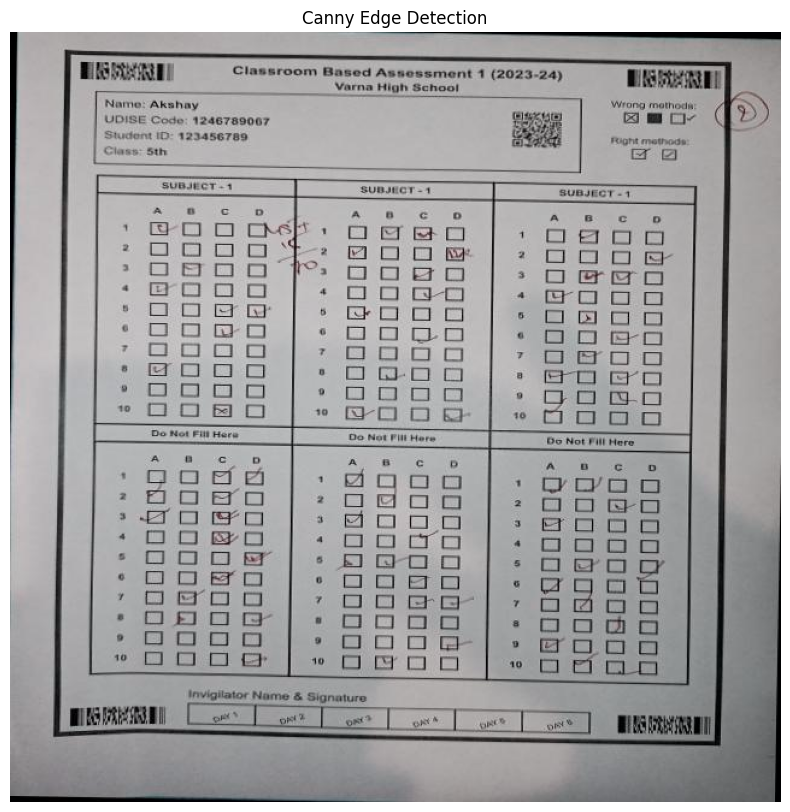
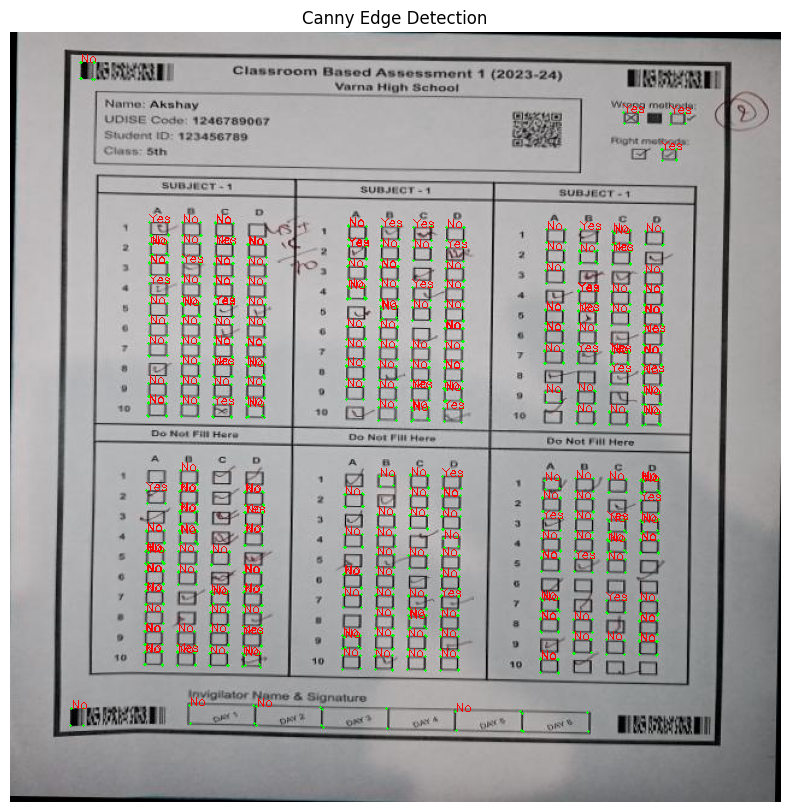
finalized

diff --git a/app.py b/app.py
@@ -2,6 +2,8 @@ from flask import Flask, request, render_template, send_from_directory, jsonify,
 import os
 import cv2
 import numpy as np
+import matplotlib.pyplot as plt
+import math
 
 app = Flask(__name__)
 UPLOAD_FOLDER = 'uploads'
@@ -73,43 +75,155 @@ def process_e_document(image):
     return image
 
 def process_paper_document(image):
+    # Binarize the image using adaptive thresholding and invert it
     gray_scale = cv2.cvtColor(image, cv2.COLOR_BGR2GRAY)
     img_bin = cv2.adaptiveThreshold(gray_scale, 255, cv2.ADAPTIVE_THRESH_GAUSSIAN_C, cv2.THRESH_BINARY_INV, 11, 2)
+
+
+    # Define the minimum checkbox size
     line_min_width = 3
+
+    # Define vertical and horizontal kernels for morphological operations
     kernal_h = np.ones((1, line_min_width), np.uint8)
     kernal_v = np.ones((line_min_width, 1), np.uint8)
+
+    # Detect horizontal lines
     img_bin_h = cv2.morphologyEx(img_bin, cv2.MORPH_OPEN, kernal_h)
+
+    # Detect vertical lines
     img_bin_v = cv2.morphologyEx(img_bin, cv2.MORPH_OPEN, kernal_v)
+
+
+    # Merge horizontal and vertical lines
     img_bin_final = img_bin_h | img_bin_v
+
+    # Apply dilation to close small gaps
     final_kernel = np.ones((1, 1), np.uint8)
     img_bin_final = cv2.dilate(img_bin_final, final_kernel, iterations=1)
+
+
     contours_first, hierarchy_first = cv2.findContours(img_bin_final, cv2.RETR_TREE, cv2.CHAIN_APPROX_NONE)
+    #cv2.drawContours(image, contours, -1, (0, 255, 0), 1)
+
     original_image = image.copy()
-    canny_image = cv2.Canny(cv2.GaussianBlur(cv2.cvtColor(original_image, cv2.COLOR_BGR2GRAY), (5, 5), 1), 10, 50)
+    grayscale_image = cv2.cvtColor(original_image, cv2.COLOR_BGR2GRAY)
+    blur_image = cv2.GaussianBlur(grayscale_image, (5, 5), 1)
+    canny_image = cv2.Canny(blur_image, 10, 50)
+
+    copy_image = original_image.copy()
+    draw_what_you_need_image = original_image.copy()
+    #finished_all_lines_image = original_image.copy()
+
     contours_second, hierarchy_second = cv2.findContours(canny_image, cv2.RETR_TREE, cv2.CHAIN_APPROX_NONE)
-    rectangle_vertices_list = []
+
+    rectangle_list_first = []
+    rectangle_vertices_list_first = []
     for i in contours_first:
-        for j in contours_second:
-            x, y, width, height = cv2.boundingRect(i)
-            if (width > 10 and width < 85) and (height > 10 and height < 85):
-                param_lenght = cv2.arcLength(i, True)
-                param_approx = cv2.approxPolyDP(i, 0.02 * param_lenght, True)
-                if len(param_approx) == 4:
-                    rectangle_vertices_list.append(param_approx)
-    for i in rectangle_vertices_list:
+        x, y, width, height = cv2.boundingRect(i)
+
+        if (width > 10 and width < 85) and (height > 10 and height < 85):
+            param_lenght = cv2.arcLength(i, True)
+            param_approx = cv2.approxPolyDP(i, 0.02 * param_lenght, True)
+            if len(param_approx) == 4: #or len(param_approx) == 5:
+                rectangle_list_first.append(i)
+                rectangle_vertices_list_first.append(param_approx)
+
+    rectangle_list_second = []
+    rectangle_vertices_list_second = []
+    # for j in contours_first:
+    for i in contours_second:
+        x, y, width, height = cv2.boundingRect(i)
+
+        if (width > 10 and width < 85) and (height > 10 and height < 85):
+            param_lenght = cv2.arcLength(i, True)
+            param_approx = cv2.approxPolyDP(i, 0.02 * param_lenght, True)
+            if len(param_approx) == 4: 
+                rectangle_list_second.append(i)
+                rectangle_vertices_list_second.append(param_approx)
+
+    contours = contours_second + contours_first
+    # Flatten contours and find unique ones
+    flat_contours = [c.reshape(-1, 2) for c in contours]
+
+    unique_contours = []
+    seen = set()
+
+    for contour in flat_contours:
+        contour_tuple = tuple(map(tuple, contour))  # Convert to a tuple of tuples for hashing
+        if contour_tuple not in seen:
+            seen.add(contour_tuple)
+            unique_contours.append(contour)
+
+    # Convert back to original shape
+    unique_contours = [np.expand_dims(c, axis=1) for c in unique_contours]
+
+    rectangle_list = rectangle_list_first + rectangle_list_second
+    rectangle_vertices_list = rectangle_vertices_list_first + rectangle_vertices_list_second
+
+    # Flatten contours and find unique ones
+    flat_rectangle_list = [c.reshape(-1, 2) for c in rectangle_vertices_list]
+
+    unique_rectangle_list = []
+    seen = set()
+
+    for rectangle in flat_rectangle_list:
+        rectangle_tuple = tuple(map(tuple, rectangle))  # Convert to a tuple of tuples for hashing
+        if rectangle_tuple not in seen:
+            seen.add(rectangle_tuple)
+            unique_rectangle_list.append(rectangle)
+
+    # Convert back to original shape
+    unique_rectangle_list = [np.expand_dims(c, axis=1) for c in unique_rectangle_list]
+
+    unique_rectangle_list.sort(key=lambda c: c[0][0][0])  # Sorting by x-coordinate of the first point
+
+    image_area = grayscale_image
+
+
+    prev = np.array([[[1, 1]], [[1, 1]], [[1, 1]], [[1, 1]]])
+    for i in unique_rectangle_list:
         cv2.drawContours(image, i, -1, (0, 255, 0), 2)
         temp = i
         image_area = canny_image[i[0][0][1]:i[2][0][1] + 2, i[0][0][0]:i[3][0][0] + 1]
-        if cv2.countNonZero(image_area) > cv2.contourArea(i) * 0.5:
+        if (abs(prev[0][0][1] - i[0][0][1]) < 1 or abs(prev[2][0][1] - i[2][0][1]) < 3 or abs(prev[1][0][1] - i[1][0][1]) < 5):
+            continue
+        else: 
+            if abs(prev[1][0][0] - i[1][0][0]) < 3 and not(abs(prev[1][0][1] - i[1][0][1]) > 5):
+                continue
+            if not(abs(prev[3][0][1] - i[3][0][1]) > 1) and abs(prev[3][0][0] - i[3][0][0]) < 15:
+                continue
+        if cv2.countNonZero(image_area) > cv2.contourArea(i) * 0.4:
+            prev = i
             if i[0][0][0] - 1 <= i[2][0][0] and i[0][0][1] - 1 <= i[2][0][1]:
-                cv2.putText(image, 'Yes', i[0][0], cv2.FONT_HERSHEY_SIMPLEX, 0.4, (0, 0, 255), 2, bottomLeftOrigin=False)
+                cv2.putText(image, 'Yes', i[0][0], cv2.FONT_HERSHEY_SIMPLEX, 0.4, (0, 0, 255), 1, bottomLeftOrigin=False)
             else:
-                cv2.putText(image, 'Yes', i[1][0], cv2.FONT_HERSHEY_SIMPLEX, 0.4, (0, 0, 255), 2, bottomLeftOrigin=False)
+                cv2.putText(image, 'Yes', i[1][0], cv2.FONT_HERSHEY_SIMPLEX, 0.4, (0, 0, 255), 1, bottomLeftOrigin=False)
         else:
+            prev = i
             if i[0][0][0] - 1 <= i[2][0][0] and i[0][0][1] - 1 <= i[2][0][1]:
-                cv2.putText(image, 'No', i[0][0], cv2.FONT_HERSHEY_SIMPLEX, 0.4, (0, 0, 255), 2, bottomLeftOrigin=False)
+                cv2.putText(image, 'No', i[0][0], cv2.FONT_HERSHEY_SIMPLEX, 0.4, (0, 0, 255), 1, bottomLeftOrigin=False)
             else:
-                cv2.putText(image, 'No', i[1][0], cv2.FONT_HERSHEY_SIMPLEX, 0.4, (0, 0, 255), 2, bottomLeftOrigin=False)
+                cv2.putText(image, 'No', i[1][0], cv2.FONT_HERSHEY_SIMPLEX, 0.4, (0, 0, 255), 1, bottomLeftOrigin=False)
+    # Invert the image and find the connected components
+    ret, labels, stats, centroids = cv2.connectedComponentsWithStats(~img_bin_final, connectivity=8, ltype=cv2.CV_32S)
+
+    # Visualize the connected component image
+
+
+    # Loop through each detected component and draw a bounding box
+    for x, y, w, h, area in stats[2:]:
+        aspect_ratio = w / h
+        if 20 <= w <= 80 and 20 <= h <= 80 and 0.8 <= aspect_ratio <= 1.2:  # Adjusted size and aspect ratio check
+            # Extract the region of interest
+            roi = gray_scale[y:y+h, x:x+w]
+            # Threshold the ROI
+            _, checkbox_thresh = cv2.threshold(roi, 0, 255, cv2.THRESH_BINARY_INV + cv2.THRESH_OTSU)
+            # Check if the checkbox is checked based on pixel density within the bounding box
+            total_pixels = checkbox_thresh.size
+            non_zero_pixels = cv2.countNonZero(checkbox_thresh)
+            fill_ratio = non_zero_pixels / total_pixels
+            cv2.rectangle(image, (x, y), (x+w, y+h), (0, 255, 0), 2)
+
     return image
 
 if __name__ == "__main__":
